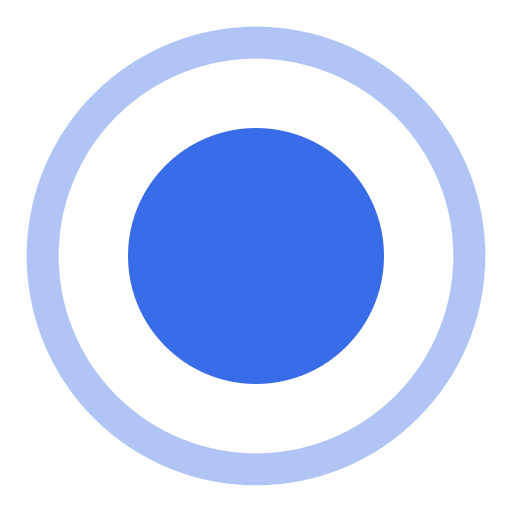
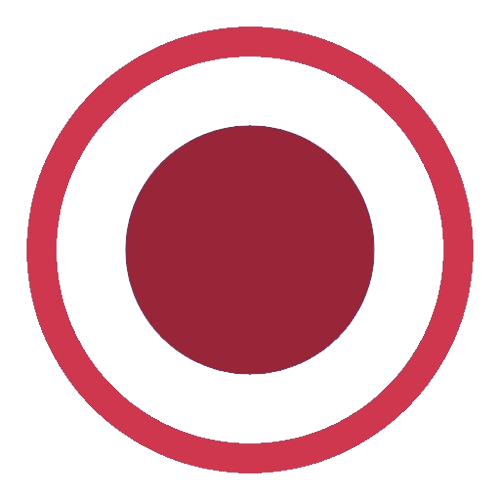
Izzy colours

diff --git a/client/only_connect/scripts/main.js b/client/only_connect/scripts/main.js
@@ -155,14 +155,26 @@ function goForward(param) {
                         gameState.buzzer = null;
                     }
                     else if (!gameState.timer.active) {
-                        state.boxes = [];
-                        state.boxes.push(...question.boxes);
-                        state.fixedScore = null;
+						if (state.questionType == "music") {
+							state.boxes.push(question.boxes[state.boxes.length]);
+						}
+						else {
+							state.boxes = [];
+							state.boxes.push(...question.boxes);
+                        }
+						state.fixedScore = null;
                         state.answer = null;
                         gameState.buzzer = null;
-                        if (gameState.shownSection == "sequences") {
+                        if (state.boxes.length == question.boxes.length && gameState.shownSection == "sequences") {
                             state.boxes[state.boxes.length-1] = "?";
                         }
+						else if (state.questionType == "music") {
+							gameState.timer.time = state.maxTime;
+							gameState.timer.active = true;
+							if (!timerTimeout) {
+								startTimer();
+							}
+						}
                     }
 				}
 				else if (!state.answer) {
@@ -457,8 +469,8 @@ function shuffle(array) {
 // -------------------------------------------------------------------------------------------------------------------------
 // -------------------------------------------------------------------------------------------------------------------------
 // -------------------------------------------------------------------------------------------------------------------------
-const TIMER_DONE_COLOUR = "#FFC0CB";
-const TIMER_UNDONE_COLOUR = "#00FFFF";
+const TIMER_DONE_COLOUR = "#264653";
+const TIMER_UNDONE_COLOUR = "#FDF0D5";
 
 
 function capitalize(s) {
@@ -528,6 +540,7 @@ function updateGame() {
 				box.onmousedown = () => {
 					goForward(box.innerHTML.toLowerCase());
 				}
+				box.style.backgroundColor = "#F4A261";
 			}
 		}
 		else {
@@ -538,6 +551,7 @@ function updateGame() {
 				let box = fourBoxBoxWrapper.children[i];
 				box.onmousedown = () => {revealAnswer(i)};
 				box.style.opacity = "";
+				box.style.backgroundColor = "#C05761";
 				if (gameState[section].boxes.length > i) {
 					box.style.visibility = "visible";
                     // If "?", then show via text, even if it's a different questionType
@@ -611,8 +625,8 @@ function updateGame() {
 	// Update connectionWrapper
 	if (section == "connections") {
 		connectionWrapper.style.display = "";
-		let highlightedColour = "cyan";
-		let completedColours = ["red", "green", "yellow", "blue"];
+		let highlightedColour = "#FAE588";
+		let completedColours = ["#92bf6e", "#7fa65f", "#6b8c50", "#587342"];
 		for (let i=0; i<connectionBoxes.length; i++) {
 			let box = connectionBoxes[i];
 			let completedSets = gameState[section].boxes.completed.length / 4;
@@ -628,7 +642,7 @@ function updateGame() {
 				if (gameState[section].boxes.highlighted.includes(box.innerHTML)) {
 					box.style.backgroundColor = highlightedColour;
 				} else {
-					box.style.backgroundColor = "";
+					box.style.backgroundColor = "#F4A261";
 				}
 			}
 			// Erroneous
@@ -676,7 +690,15 @@ function updateGame() {
 	
 	// Update the answerBox
 	if (section && (gameState[section].answer || gameState.buzzer)) {
-		answerBox.innerHTML = gameState[section].answer || gameState.buzzer;
+		let answerBoxColours = ["#485e36", "#992638"];
+		if (gameState[section].answer) {
+			answerBox.innerHTML = gameState[section].answer;
+			answerBox.style.backgroundColor = answerBoxColours[0];
+		}
+		else {
+			answerBox.innerHTML = gameState.buzzer;
+			answerBox.style.backgroundColor = answerBoxColours[1];
+		}
 		answerBox.style.visibility = "visible";
 	}
 	else {
@@ -719,7 +741,7 @@ var gameState = {
 	},
 	"connections": {
 		"done": false,
-		"maxTime": 150,
+		"maxTime": 1,
 		"currentBoard": 0,
 		"lives": 3,
 		"boxes": {

diff --git a/server/only_connect/server.js b/server/only_connect/server.js
@@ -221,14 +221,26 @@ function connection(socket) {
                             gameState.buzzer = null;
                         }
                         else if (!gameState.timer.active) {
-                            state.boxes = [];
-                            state.boxes.push(...question.boxes);
-                            state.fixedScore = null;
-                            state.answer = null;
-                            gameState.buzzer = null;
-                            if (gameState.shownSection == "sequences") {
-                                state.boxes[state.boxes.length-1] = "?";
-                            }
+                            if (state.questionType == "music") {
+								state.boxes.push(question.boxes[state.boxes.length]);
+							}
+							else {
+								state.boxes = [];
+								state.boxes.push(...question.boxes);
+							}
+							state.fixedScore = null;
+							state.answer = null;
+							gameState.buzzer = null;
+							if (state.boxes.length == question.boxes.length && gameState.shownSection == "sequences") {
+								state.boxes[state.boxes.length-1] = "?";
+							}
+							else if (state.questionType == "music") {
+								gameState.timer.time = state.maxTime;
+								gameState.timer.active = true;
+								if (!timerTimeout) {
+									startTimer();
+								}
+							}
                         }
                     }
                     else if (!state.answer) {

diff --git a/client/only_connect/style.css b/client/only_connect/style.css
@@ -14,6 +14,7 @@ body {
 	height: 100vh;
 	visibility: hidden;
 	padding: 0.5vh;
+	background-color: #FDF0D5;
 }
 
 .box {
@@ -26,7 +27,7 @@ body {
 	border-radius: 1vw;
 	border-color: black;
 	border-style: solid;
-	background-color: grey;
+	background-color: #F4A261;
 	overflow: hidden;
 	touch-action: manipulation;
 }
@@ -42,6 +43,10 @@ body {
 	flex-grow: 1;
 }
 
+#titleBox {
+	background-color: #FAE588;
+}
+
 #titleWrapper {
 	display: flex;
 	justify-content: center;
@@ -51,6 +56,15 @@ body {
 	max-height: 10vh;
 	padding: 0.5vh;
 }
+
+#topleft {
+	background-color: #2A9D8F;
+}
+
+#topright {
+	background-color: #E76F51;
+}
+
 
 .score {
 	width: 9vh;
@@ -70,6 +84,7 @@ body {
 .footerBox {
 	width: 9vh;
 	height: 9vh;
+	background-color: #FAE588;
 }
 
 #fourBoxWrapper {

diff --git a/client/only_connect/index.html b/client/only_connect/index.html
@@ -9,9 +9,9 @@
     <body>
 	<div id="bodyWrapper">
 		<div id="titleWrapper">
-			<div class="score box" onclick="updateScore(0)">0</div>
+			<div id="topleft" class="score box" onclick="updateScore(0)">0</div>
 			<div id="titleBox" class="box infoBox" onclick="goForward()">Title Box</div>
-			<div class="score box" onclick="updateScore(1)">0</div>
+			<div id="topright" class="score box" onclick="updateScore(1)">0</div>
 		</div>
 		<div id="fourBoxWrapper">
 			<div id="fourBoxTimerWrapper">

diff --git a/client/only_connect/buzzer/style.css b/client/only_connect/buzzer/style.css
@@ -13,6 +13,7 @@ body {
 	width: 100vw;
 	height: 100vh;
 	padding: 0.5vw;
+	background-color: #FDF0D5;
 }
 
 #buzzerDiv {
@@ -45,4 +46,14 @@ body {
 	border-color: black;
 	border-style: solid;
 	background-color: grey;
+}
+
+#nameBox {
+	background-color: #FAE588;
+}
+
+#buzzerBox {
+	background-color: transparent;
+	border: none;
+	color: #992638;
 }
